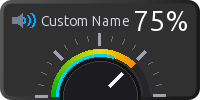
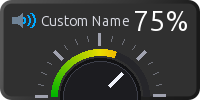
Remap active gradient segment to act as the live audio peak level meter, showing it only when audio is playing, and keep pointer representing the static volume setting

Changed region(s): [[0.27, 0.51, 0.69, 0.99]]

diff --git a/actions/VolumeControl/VolumeControl.py b/actions/VolumeControl/VolumeControl.py
@@ -564,10 +564,9 @@ class VolumeControl(ActionBase):
         bbox = [(cx - rx_arc, cy - ry_arc), (cx + rx_arc, cy + ry_arc)]
         draw.arc(bbox, start=180, end=360, fill=(38, 38, 42, 255), width=7)
         
-        # Draw Active Gauge Segment
-        end_angle = 180 + 180 * (volume / 100.0)
-        
-        if not is_muted and volume > 0:
+        # Draw Active Gauge Segment (now functions as the live audio playback meter)
+        if not is_muted and peak > 0.04:
+            end_angle = 180 + 180 * peak
             for angle in range(180, int(end_angle)):
                 pct = (angle - 180) / 180.0
                 if pct < 0.5:
@@ -582,21 +581,14 @@ class VolumeControl(ActionBase):
                     b_col = 0
                     
                 draw.arc(bbox, start=angle, end=angle+2, fill=(r_col, g_col, b_col, 255), width=7)
-                
-        # Draw Real-time Audio Peak Meter (glowing cyan arc hugging outer knob)
-        if not is_muted and peak > 0.04:
-            rx_peak, ry_peak = 44, 42
-            bbox_peak = [(cx - rx_peak, cy - ry_peak), (cx + rx_peak, cy + ry_peak)]
-            peak_angle = 180 + 180 * peak
-            draw.arc(bbox_peak, start=180, end=int(peak_angle), fill=(0, 210, 255, 255), width=3)
 
         # 4. Draw Inner Knob Core (Outer shadow/border for 3D bevel look)
         draw.ellipse([(cx - rx_outer, cy - ry_outer), (cx + rx_outer, cy + ry_outer)], fill=(18, 18, 20, 255))
         # Inner circle of the core
         draw.ellipse([(cx - rx_inner, cy - ry_inner), (cx + rx_inner, cy + ry_inner)], fill=(28, 28, 32, 255), outline=(60, 62, 72, 255), width=1)
         
-        # 5. Draw Pointer line on top of the knob
-        pointer_angle = end_angle
+        # 5. Draw Pointer line on top of the knob (still represents static volume level)
+        pointer_angle = 180 + 180 * (volume / 100.0)
         rad_pt = math.radians(pointer_angle)
         xp1 = cx + r_pt_start * math.cos(rad_pt)
         yp1 = cy + r_pt_start * math.sin(rad_pt)